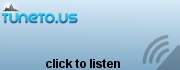
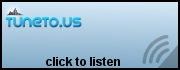
Nicer looking image.

Changed region(s): [[0.0, 0.0, 1.0, 1.0]]

diff --git a/httpdocs/application/Track/Track.php b/httpdocs/application/Track/Track.php
@@ -123,8 +123,8 @@ class Track_Controller extends Root_Controller {
 					$track_name = substr($track_name, 0, 20) . '...';
 				}
 				
-				$imager->text($view_text, 8, 175, 12)
-					->text($length_formatted, 8, 175, 24)
+				$imager->text($view_text, 8, 175, 13)
+					->text($length_formatted, 8, 175, 26)
 					->text($track_name, 10, 0, 48, Imager::ALIGN_CENTERED)
 					->setDirectory($directory)
 					->writeJpg('stats.jpg');
